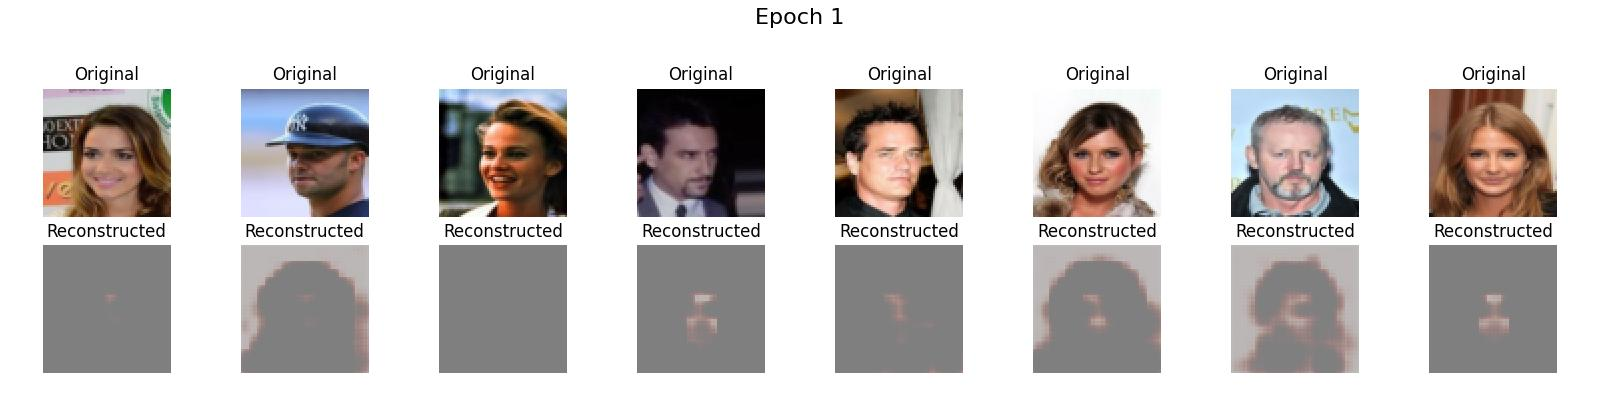
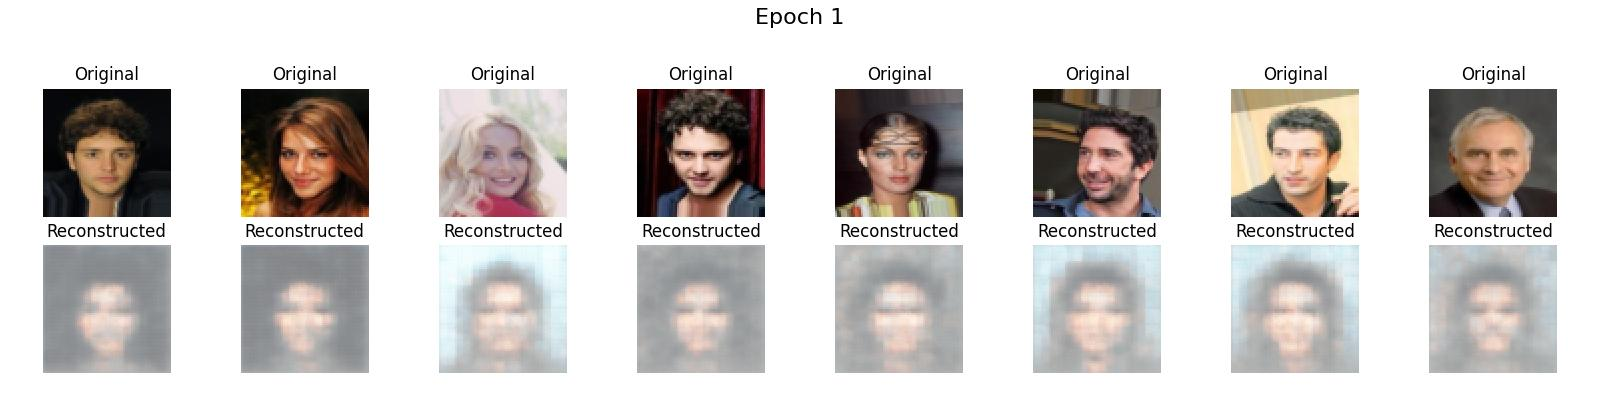
celeb VAE updated

diff --git a/AutoEncoder/celeb_vae.py b/AutoEncoder/celeb_vae.py
@@ -49,7 +49,7 @@ def main():
     model.train()
 
     loss_fn = nn.BCELoss()
-    optimizer = AdamW(model.parameters(), lr=0.0001)
+    optimizer = AdamW(model.parameters(), lr=0.001)
     model.train()
     num_epochs = 10
 
@@ -63,7 +63,7 @@ def main():
             outputs, z_mean, z_log_var = model(images)
             reconstruction_loss = loss_fn(outputs, images)
             kl_loss = -0.5 * torch.sum(1 + 2 * z_log_var - z_mean**2 - torch.exp(2 * z_log_var))
-            total_loss = reconstruction_loss + 0.005 * kl_loss
+            total_loss = reconstruction_loss + 0.05 * kl_loss
             total_loss.backward()
             optimizer.step()
 
@@ -78,35 +78,41 @@ class Encoder(nn.Module):
         super(Encoder, self).__init__()
         self.conv1 = nn.Conv2d(
             in_channels=3,          # Changed from 1 to 3 for RGB
-            out_channels=32,
+            out_channels=128,
             kernel_size=3,
             stride=2,
             padding=1               # Added padding to control spatial dimensions
         )
         self.conv2 = nn.Conv2d(
-            in_channels=32,
-            out_channels=64,
+            in_channels=128,
+            out_channels=128,
             kernel_size=3,
             stride=2,
             padding=1
         )
         self.conv3 = nn.Conv2d(
-            in_channels=64,
+            in_channels=128,
             out_channels=128,
             kernel_size=3,
             stride=2,
             padding=1
         )
         self.relu = nn.ReLU()
+        self.leaky_relu = nn.LeakyReLU()
         self.flatten = nn.Flatten()
-        
-        self.linear_mean = nn.Linear(8*8*128, 100)
-        self.linear_log_var = nn.Linear(8*8*128, 100)
+        self.batch_norm1 = nn.BatchNorm2d(128)
+        self.batch_norm2 = nn.BatchNorm2d(128)
+        self.batch_norm3 = nn.BatchNorm2d(128)
+        self.linear_mean = nn.Linear(8*8*128, 200)
+        self.linear_log_var = nn.Linear(8*8*128, 200)
 
     def forward(self, x):
-        conv1 = self.relu(self.conv1(x))     
-        conv2 = self.relu(self.conv2(conv1)) 
-        conv3 = self.relu(self.conv3(conv2)) 
+        conv1 = self.leaky_relu(self.conv1(x))  
+        conv1 = self.batch_norm1(conv1)   
+        conv2 = self.leaky_relu(self.conv2(conv1)) 
+        conv2 = self.batch_norm2(conv2)
+        conv3 = self.leaky_relu(self.conv3(conv2)) 
+        conv3 = self.batch_norm3(conv3)
         flattened = self.flatten(conv3)  
         z_mean = self.linear_mean(flattened)  
         z_log_var = self.linear_log_var(flattened) 
@@ -117,8 +123,12 @@ class Encoder(nn.Module):
 class Decoder(nn.Module):
     def __init__(self):
         super(Decoder, self).__init__()
-        self.linear = nn.Linear(100, 128*8*8) 
-        self.relu = nn.ReLU()
+        self.linear = nn.Linear(200, 128*8*8) 
+        self.leaky_relu = nn.LeakyReLU()
+        self.batch_norm1 = nn.BatchNorm2d(64)
+        self.batch_norm2 = nn.BatchNorm2d(32)
+        self.batch_norm3 = nn.BatchNorm2d(16)
+        self.batch_norm4 = nn.BatchNorm2d(3)
         self.conv1_transpose = nn.ConvTranspose2d(
             in_channels=128,
             out_channels=64,
@@ -155,10 +165,14 @@ class Decoder(nn.Module):
     def forward(self, z):
         z = self.linear(z)                    
         z = z.view(z.shape[0], 128, 8, 8)    
-        x = self.relu(self.conv1_transpose(z))  
-        x = self.relu(self.conv2_transpose(x))  
-        x = self.relu(self.conv3_transpose(x)) 
-        x = self.sigmoid(self.conv(x))          
+        x = self.leaky_relu(self.conv1_transpose(z))  
+        x = self.batch_norm1(x)
+        x = self.leaky_relu(self.conv2_transpose(x)) 
+        x = self.batch_norm2(x) 
+        x = self.leaky_relu(self.conv3_transpose(x)) 
+        x = self.batch_norm3(x)
+        x = self.batch_norm4(self.conv(x))
+        x = self.sigmoid(x)          
         
         return x
 
@@ -168,6 +182,7 @@ class VAE(nn.Module):
         super(VAE, self).__init__()
         self.encoder = Encoder()
         self.decoder = Decoder()
+        
 
     def reparameterize(self, mu, log_var):
         epsilon = torch.randn_like(mu)
@@ -194,7 +209,6 @@ def visualize_and_save(model, dataloader, epoch, save_dir='celeb_vae_reconstruct
     """
     model.eval()  
     with torch.no_grad():
-        # Get a batch of images
         test_image, test_label = next(iter(dataloader))
         decoded, z_mean, z_log_var = model(test_image)
     
